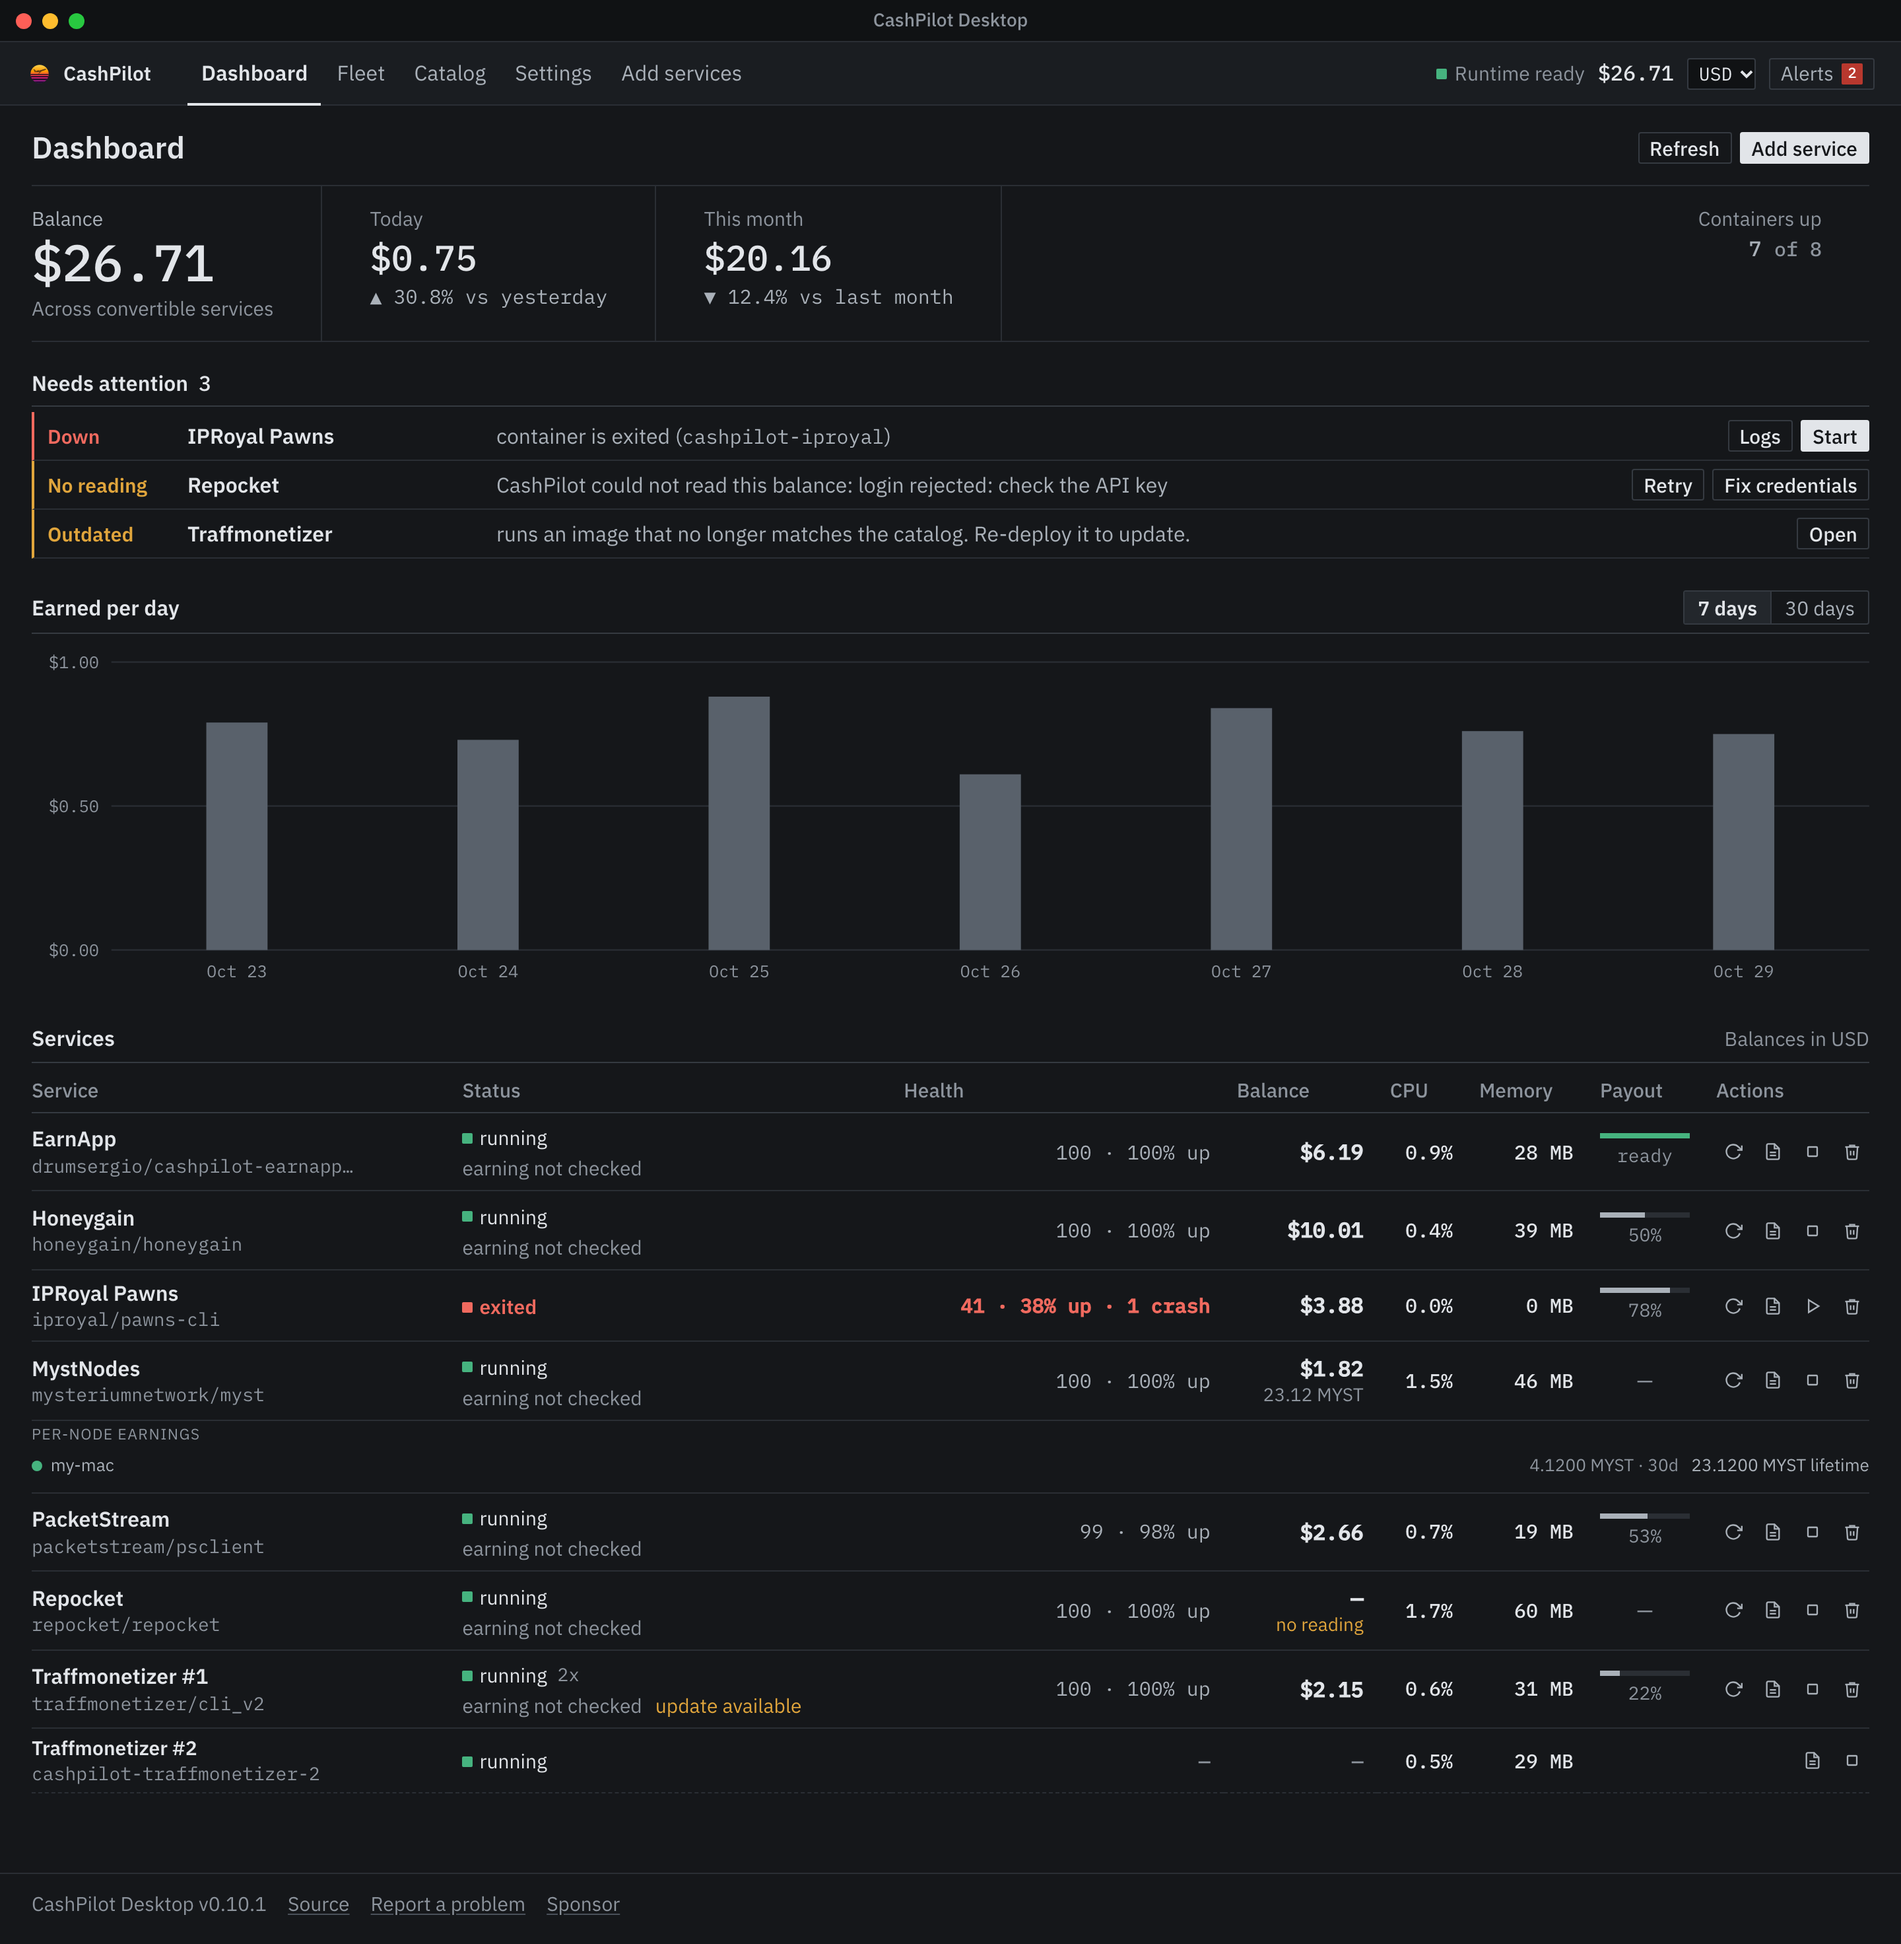
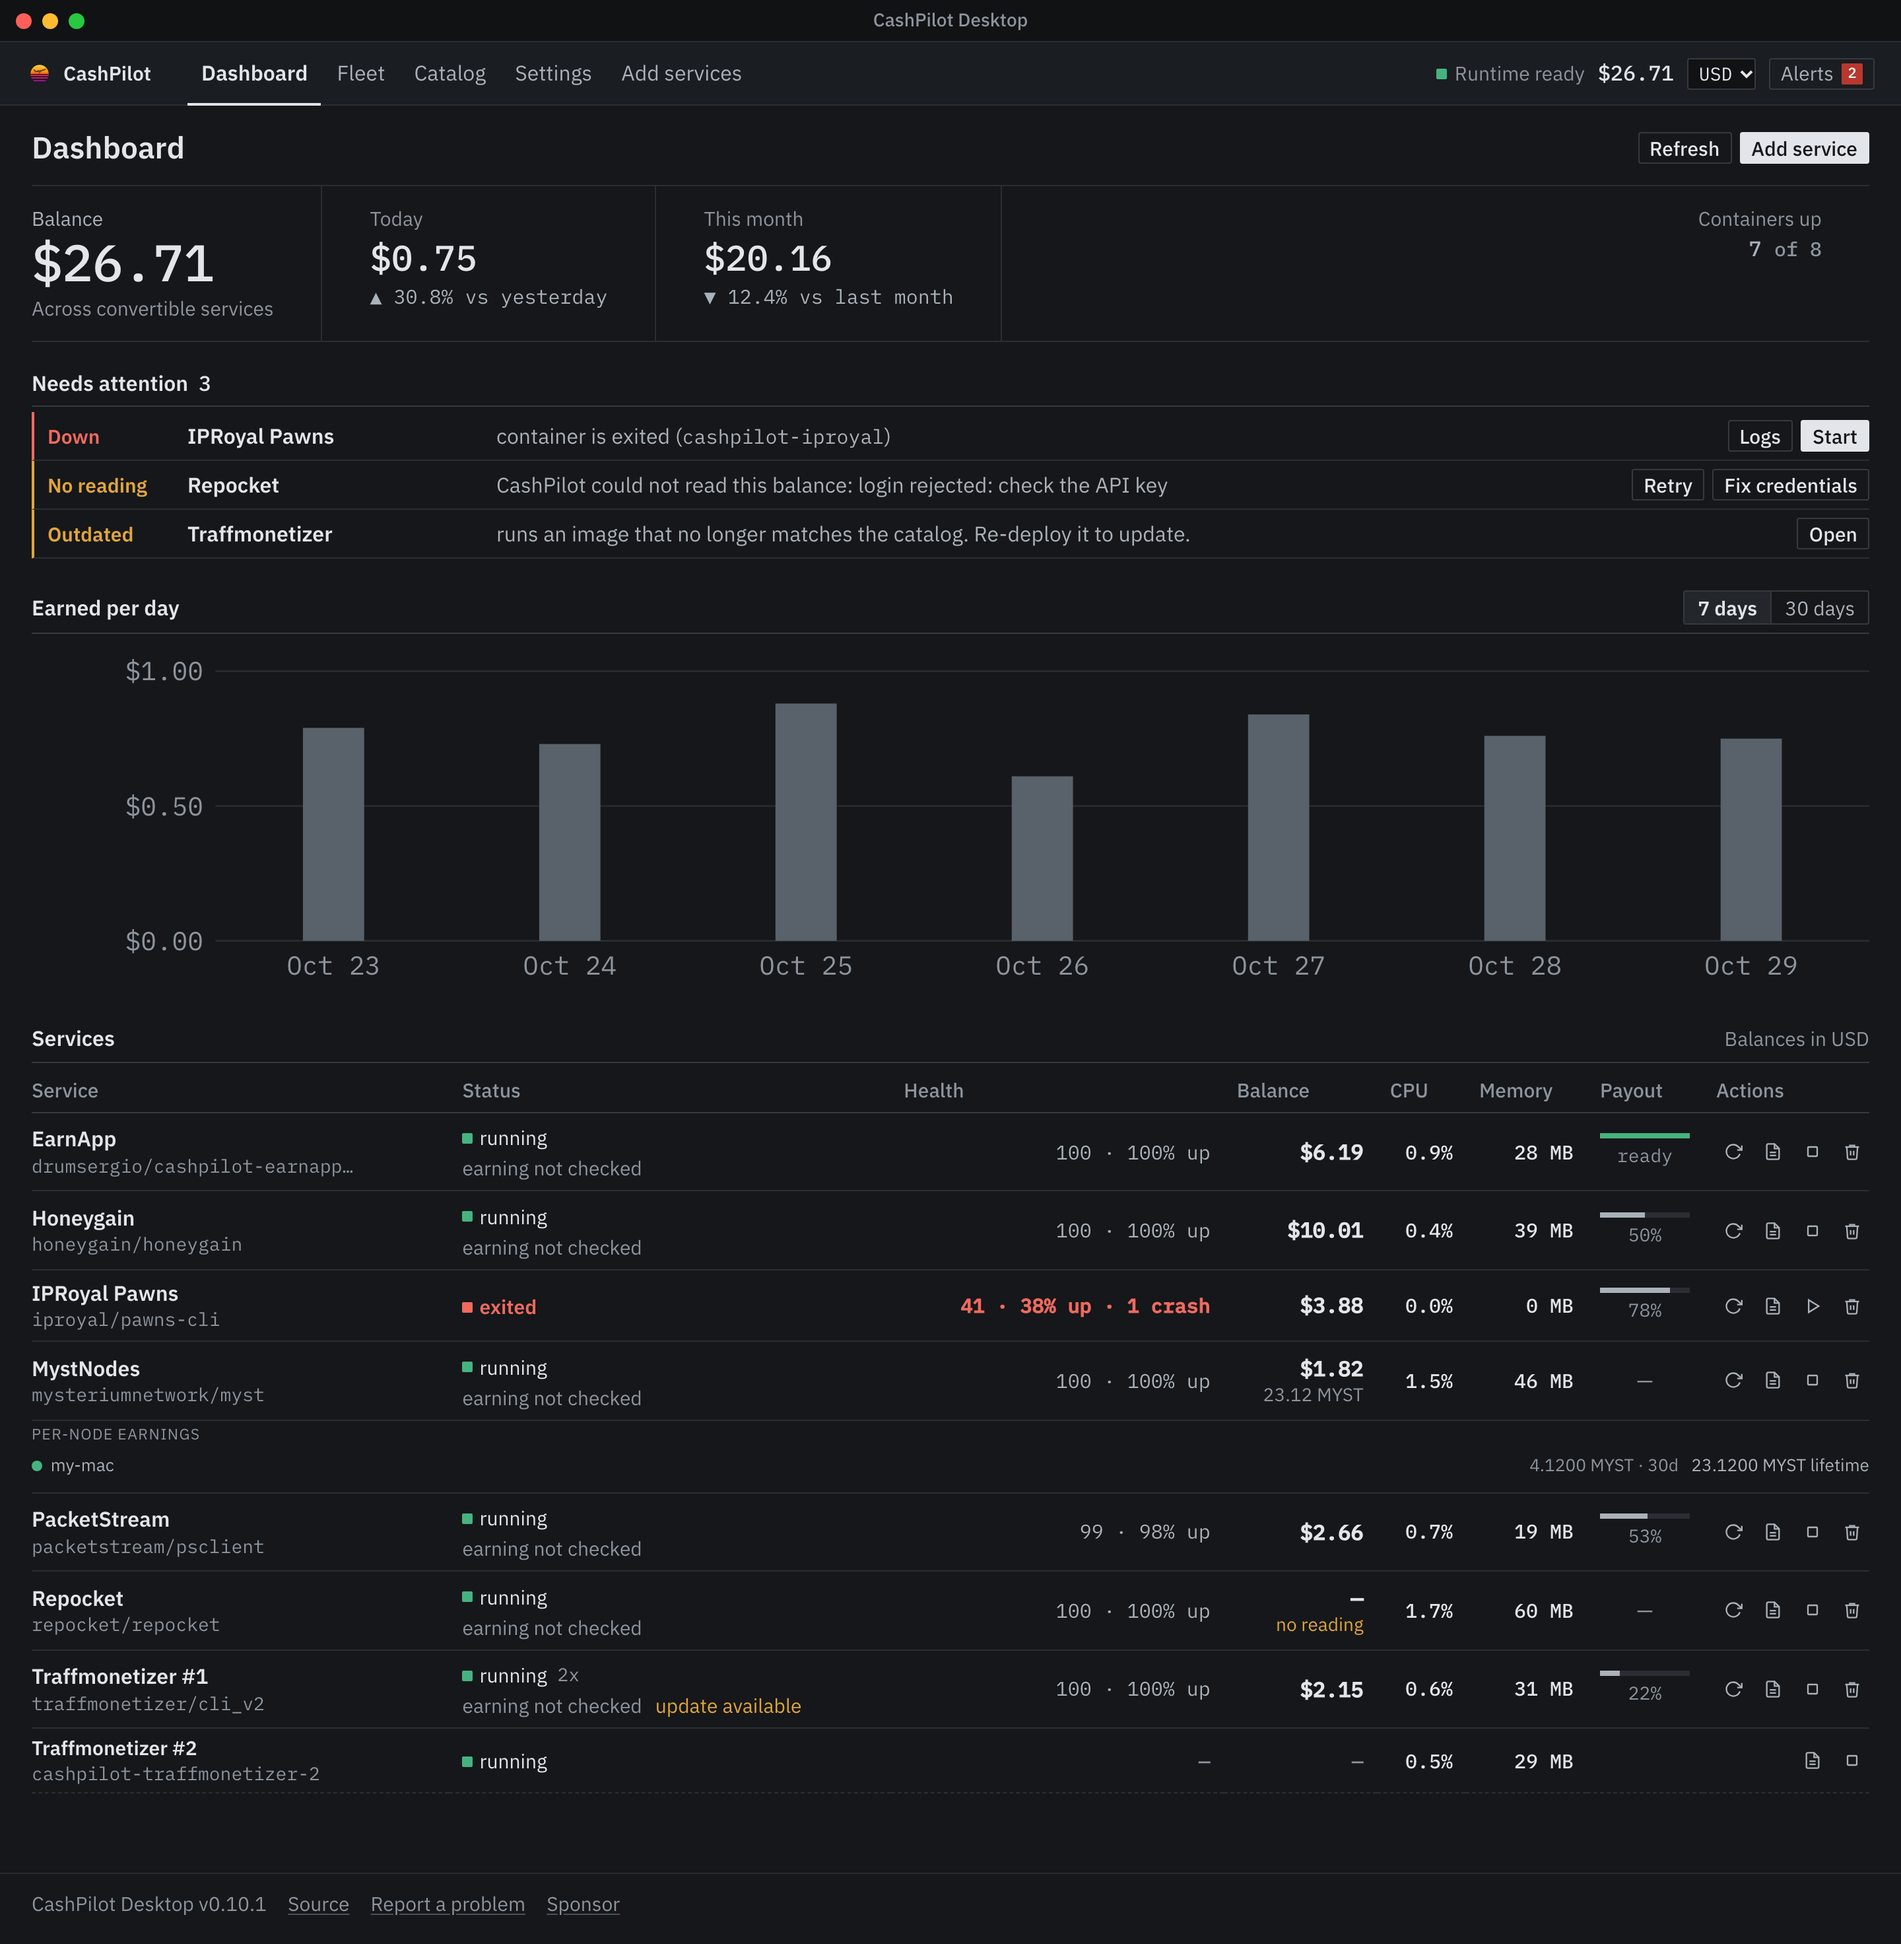
fix(ui): keep the chart's axis labels readable in the narrowest window
The labels were 11 units of a 1200-unit SVG, about 8px at the 900px minimum
window. They are 17 units now (about 12px), with margins widened so a native
label such as "0.00 MYST" and the top value are not clipped.

diff --git a/frontend/src/render/chart.ts b/frontend/src/render/chart.ts
@@ -36,9 +36,10 @@ export function renderEarningsBars(points: DailyPoint[] | null | undefined, disp
   }
   const width = 1200;
   const height = 220;
-  const left = 52;
-  const bottom = 24;
-  const top = 8;
+  // Room for an end-anchored y label as wide as "0.00 MYST" at the axis font size.
+  const left = 120;
+  const bottom = 30;
+  const top = 14;
   const plotW = width - left;
   const plotH = height - bottom - top;
   const max = niceMax(Math.max(...data.map((point) => point.amount)));
@@ -49,13 +50,13 @@ export function renderEarningsBars(points: DailyPoint[] | null | undefined, disp
   const grid = [0, 0.5, 1].map((f) => {
     const gy = y(max * f);
     return `<line class="chart-grid" x1="${left}" y1="${gy.toFixed(1)}" x2="${width}" y2="${gy.toFixed(1)}"/>
-      <text class="chart-axis" x="${left - 8}" y="${(gy + 4).toFixed(1)}" text-anchor="end">${escapeHtml(formatBalance(max * f, displayCurrency))}</text>`;
+      <text class="chart-axis" x="${left - 8}" y="${(gy + 6).toFixed(1)}" text-anchor="end">${escapeHtml(formatBalance(max * f, displayCurrency))}</text>`;
   }).join("");
   const bars = data.map((point, index) => {
     const x = left + index * slot + (slot - barW) / 2;
     const by = y(point.amount);
     const label = index % labelEvery === 0
-      ? `<text class="chart-axis" x="${(x + barW / 2).toFixed(1)}" y="${height - 6}" text-anchor="middle">${escapeHtml(point.day)}</text>`
+      ? `<text class="chart-axis" x="${(x + barW / 2).toFixed(1)}" y="${height - 8}" text-anchor="middle">${escapeHtml(point.day)}</text>`
       : "";
     return `<rect class="chart-bar" x="${x.toFixed(1)}" y="${by.toFixed(1)}" width="${barW.toFixed(1)}" height="${(top + plotH - by).toFixed(1)}"><title>${escapeHtml(point.day)}: ${escapeHtml(formatBalance(point.amount, displayCurrency))}</title></rect>${label}`;
   }).join("");

diff --git a/frontend/src/style.css b/frontend/src/style.css
@@ -402,7 +402,8 @@ section { margin-bottom: 28px; }
 .chart-grid { stroke: var(--border-color); stroke-width: 1; }
 .chart-bar { fill: var(--chart-bar); }
 .chart-bar:hover { fill: var(--text-secondary); }
-.chart-axis { fill: var(--text-muted); font-family: var(--font-mono); font-size: 11px; }
+/* SVG units: the 1200-wide chart is drawn at ~850px in the narrowest window, so 17 lands near 12px. */
+.chart-axis { fill: var(--text-muted); font-family: var(--font-mono); font-size: 17px; }
 .chart-empty { display: grid; gap: 2px; padding: 16px 0; color: var(--text-muted); }
 .chart-empty strong { color: var(--text-primary); font-weight: 600; }
 
